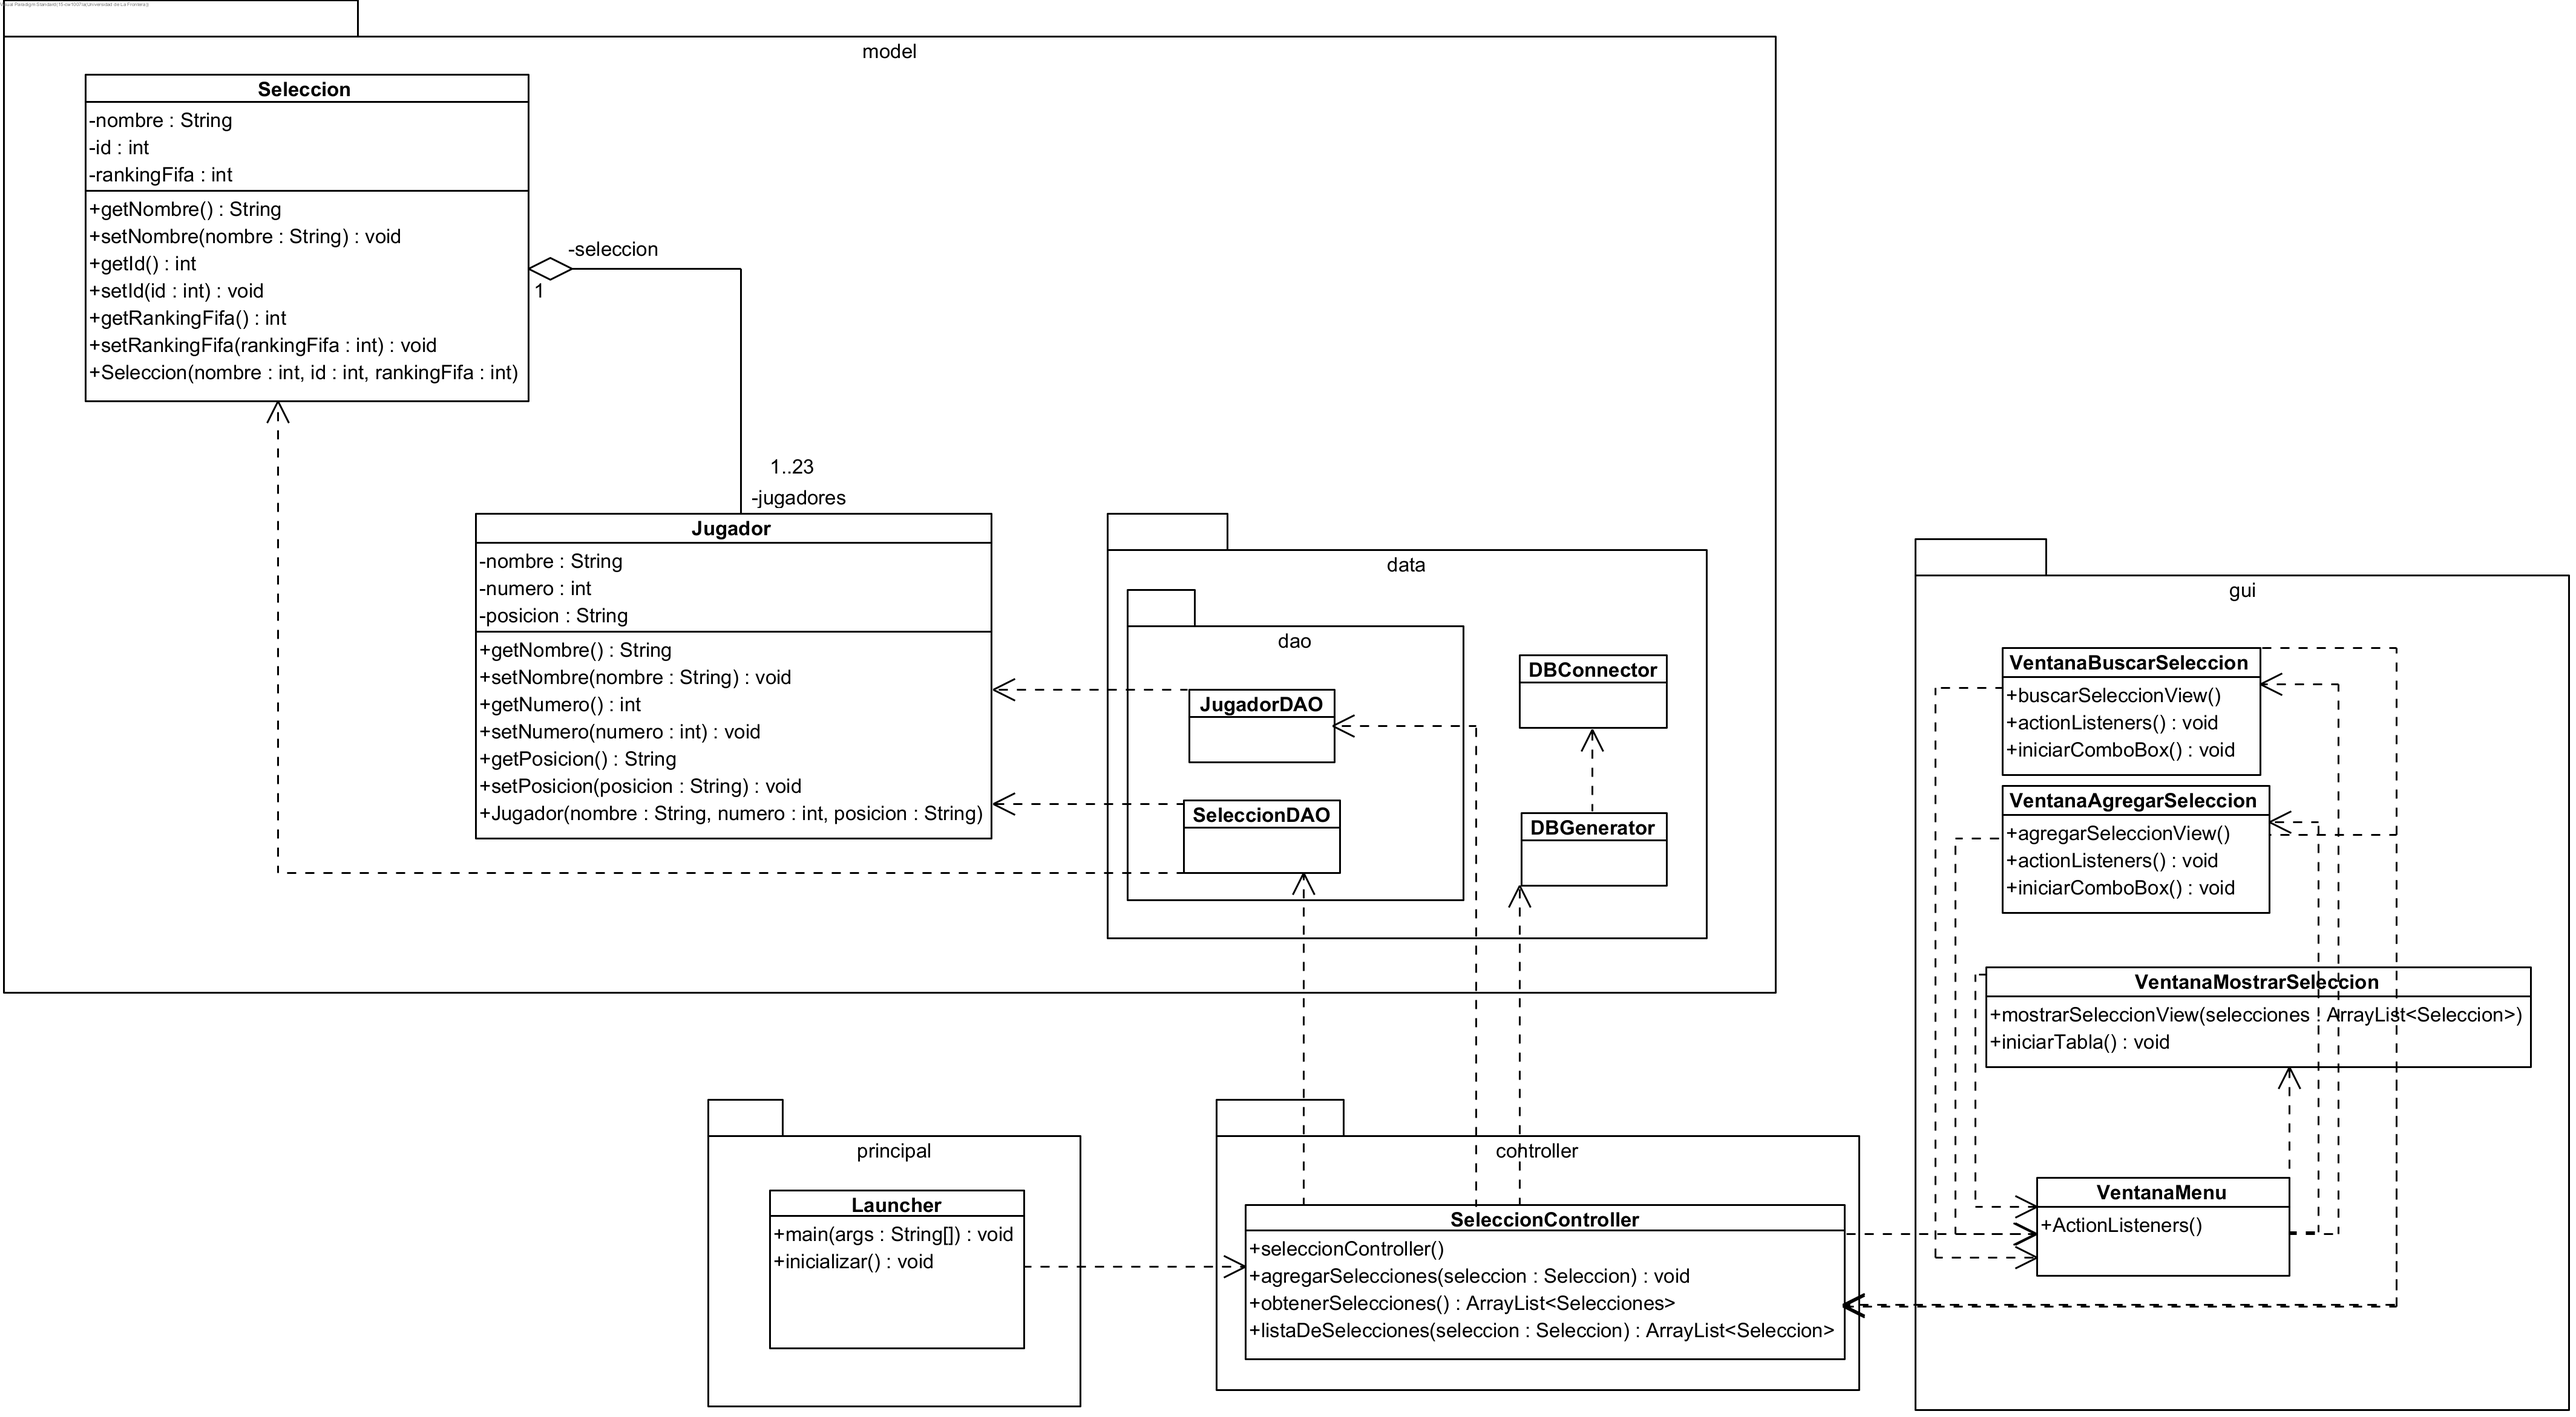
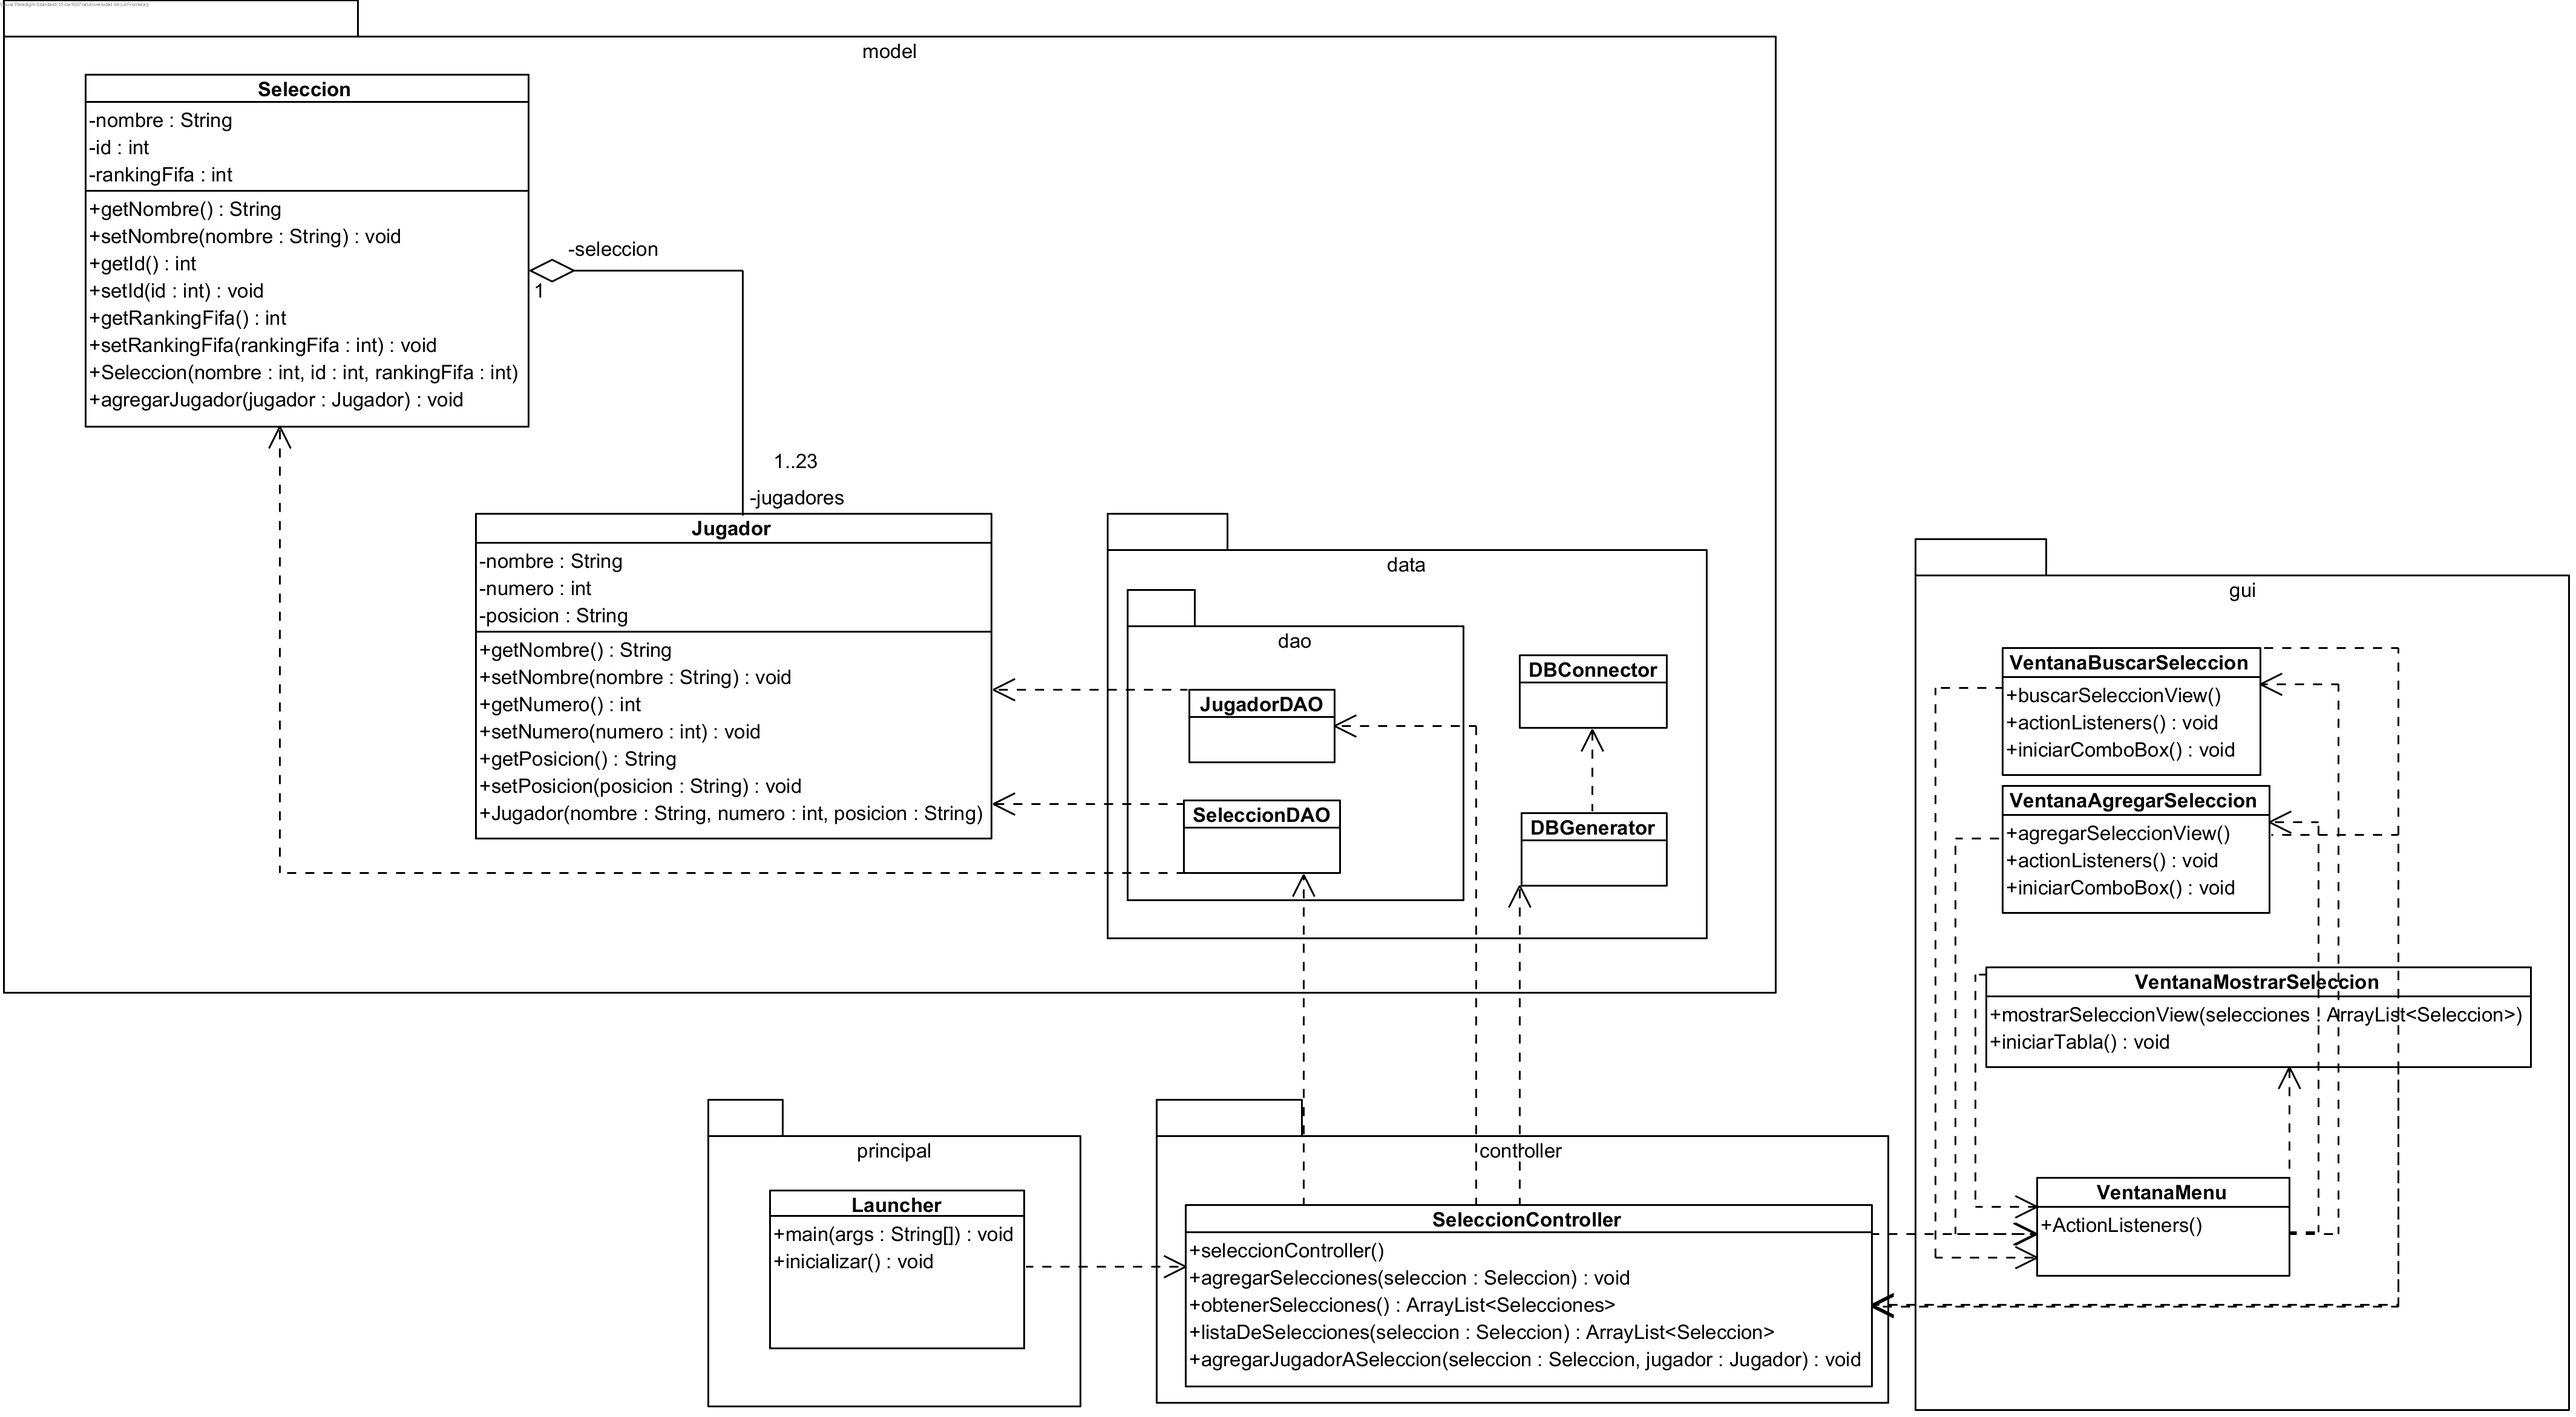
TallerN2

diff --git a/src/main/java/model/Jugador.java b/src/main/java/model/Jugador.java
@@ -6,6 +6,10 @@ public class Jugador {
 	private String posicion;
 	private Seleccion seleccion;
 
+	public Jugador(String nombre, String apellido, String posicion, int edad, int numeroCamiseta) {
+		super();
+	}
+
 	public String getNombre() {
 		return this.nombre;
 	}
@@ -28,9 +32,5 @@ public class Jugador {
 
 	public void setPosicion(String posicion) {
 		this.posicion = posicion;
-	}
-
-	public Jugador(String nombre, int numero, String posicion) {
-		super();
 	}
 }

diff --git a/src/main/java/controller/SeleccionController.java b/src/main/java/controller/SeleccionController.java
@@ -19,4 +19,7 @@ public class SeleccionController {
 	public ArrayList<Seleccion> obtenerSelecciones(ArrayList<Seleccion> listaSelecciones) {
 		return listaSelecciones;
 	}
+	public void agregarJugadorASeleccion(Seleccion seleccion, String nombre, String apellido, String posicion, int edad, int numeroCamiseta) {
+		seleccion.agregarJugador(nombre, apellido, posicion, edad, numeroCamiseta);
+	}
 }

diff --git a/src/main/java/model/Seleccion.java b/src/main/java/model/Seleccion.java
@@ -36,4 +36,9 @@ public class Seleccion {
 	public Seleccion(int nombre, int id, int rankingFifa) {
 		super();
 	}
+
+    public void agregarJugador(String nombre, String apellido, String posicion, int edad, int numeroCamiseta) {
+		Jugador jugador = new Jugador(nombre, apellido, posicion, edad, numeroCamiseta);
+		jugadores.add(jugador);
+    }
 }
